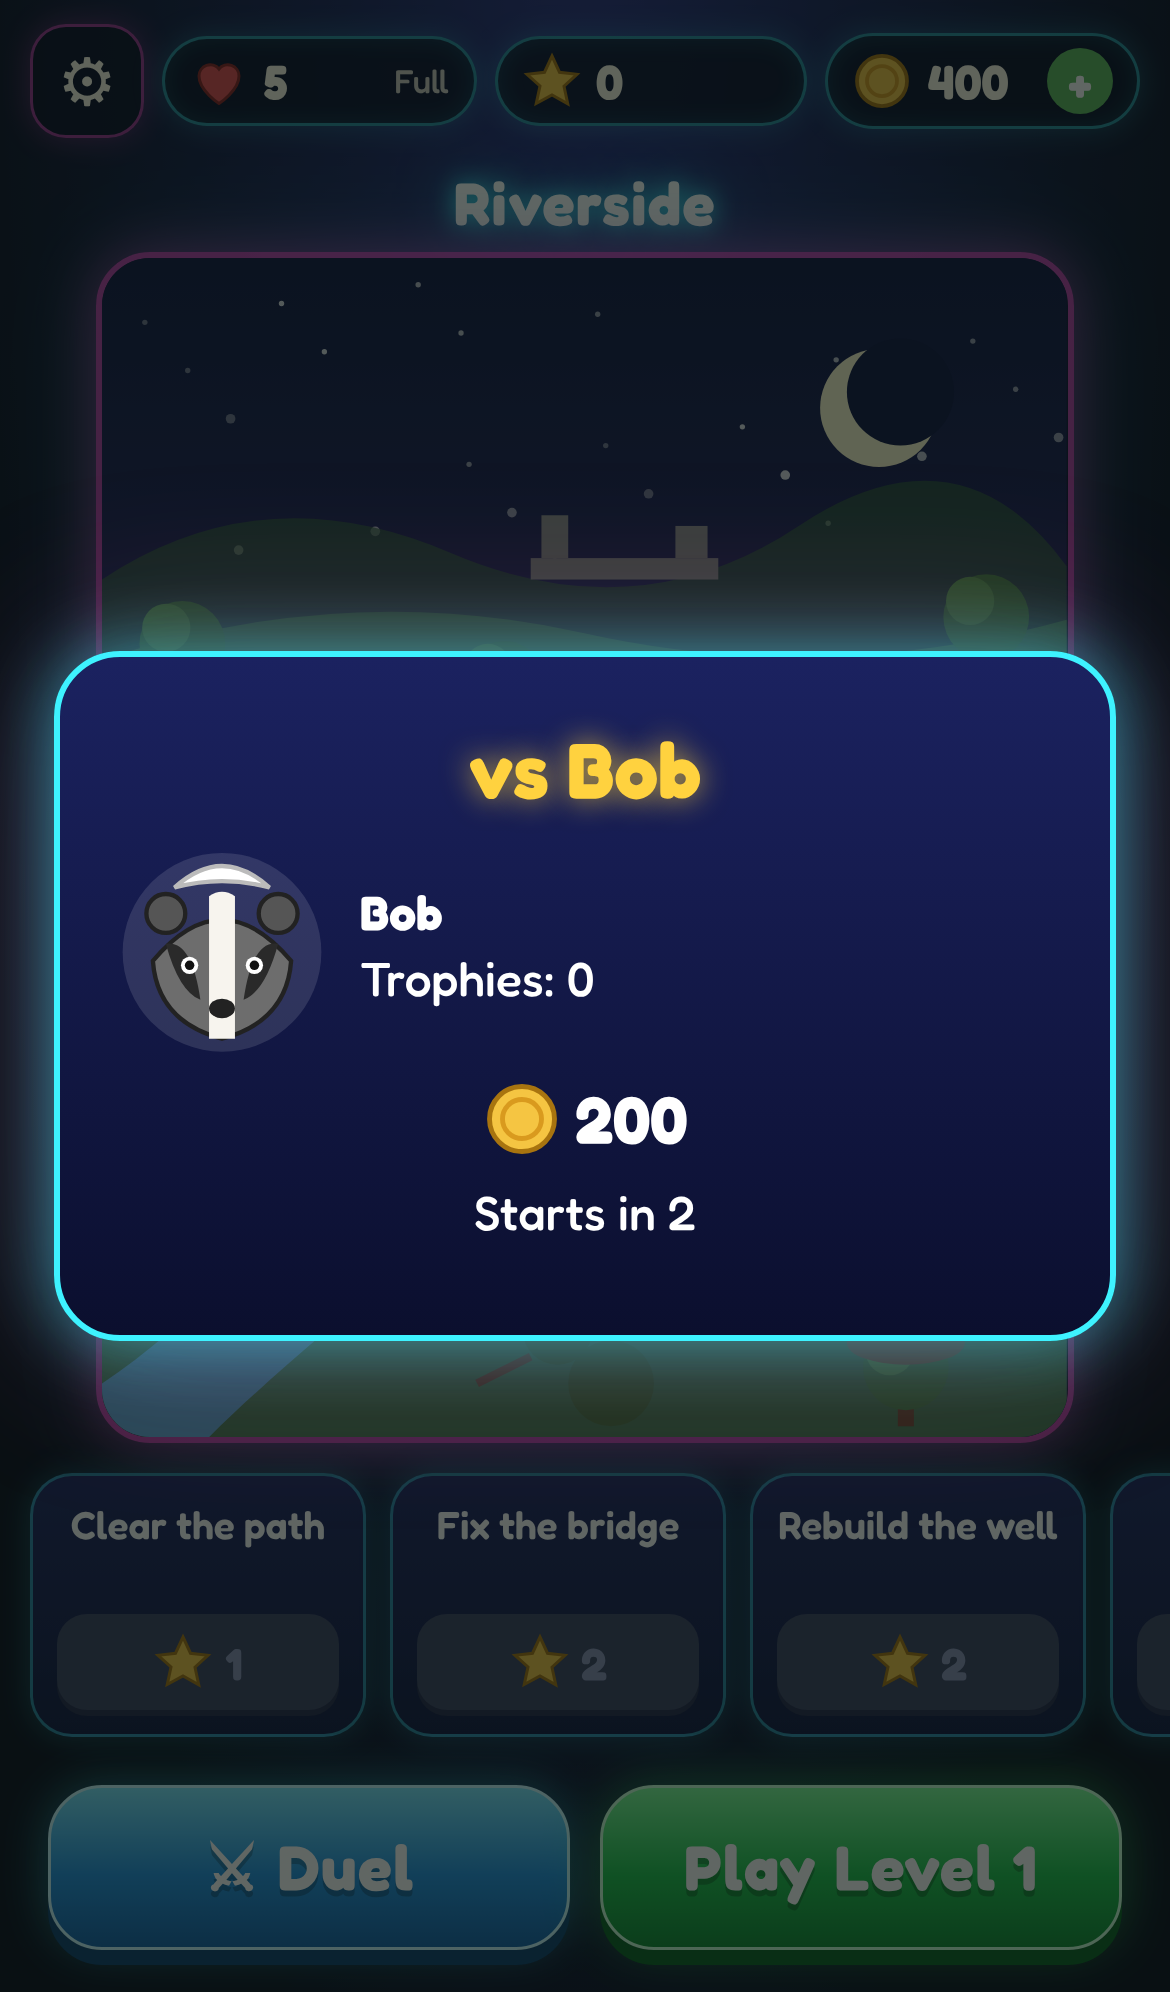
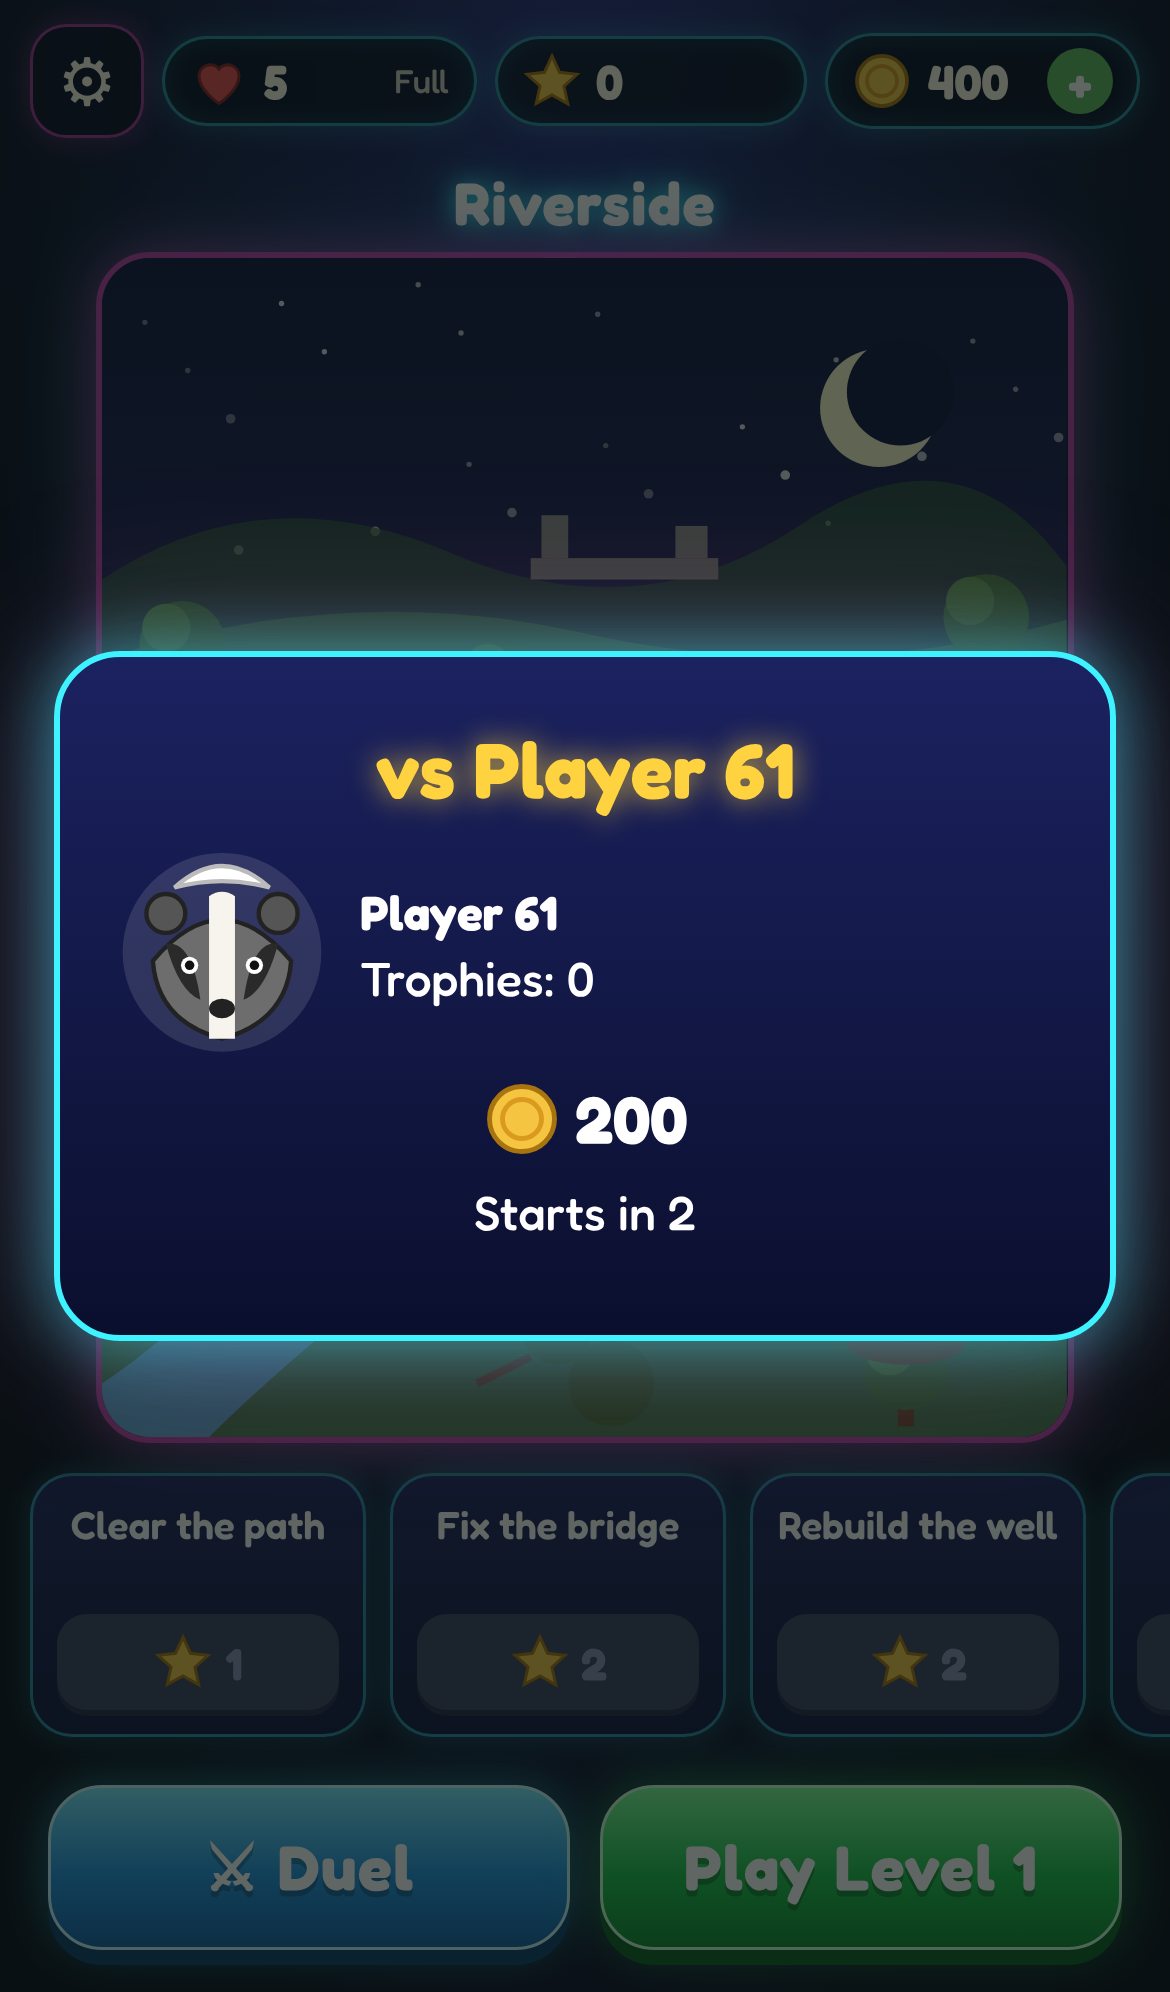
feat(mossbrook): generated duel names only, privacy + support pages, v0.3.0 run:mossbrook-ios
Names are adjective + animal + number from fixed lists (no free text to other players);
server replaces anything else. Privacy and support pages served at /mossbrook/.

Claude-Session: https://claude.ai/code/session_01QqDVFmBhHUwcQ7xNRuR2UE

Changed region(s): [[0.3077, 0.3424, 0.7077, 0.4046], [0.3077, 0.4357, 0.4923, 0.4669]]

diff --git a/mossbrook/web/privacy.html b/mossbrook/web/privacy.html
@@ -1,0 +1,35 @@
+<!doctype html>
+<html lang="en"><head><meta charset="utf-8"><meta name="viewport" content="width=device-width,initial-scale=1">
+<title>Mossbrook Solitaire - Privacy Policy</title>
+<style>body{font-family:system-ui,sans-serif;max-width:46rem;margin:2rem auto;padding:0 1rem;line-height:1.5;color:#222;background:#fff}h1{font-size:1.5rem}h2{font-size:1.15rem;margin-top:1.75rem}</style>
+</head><body>
+<h1>Privacy Policy for the game "Mossbrook Solitaire"</h1>
+<p>Last updated: 13 November 2026, version 1 (app com.nyrathen.mossbrook, iOS)</p>
+<h2>1. Controller</h2>
+<p>Ali Amuri Alnasag<br>Im Vogelsgesang 9<br>60488 Frankfurt am Main, Germany<br>E-mail for privacy requests: aa.amuri@icloud.com</p>
+<p>No data protection officer is appointed, as there is no legal obligation to do so.</p>
+<h2>2. In short</h2>
+<ul>
+<li>No account, no login, no ads, no advertising IDs, no tracking, no analytics or crash tools, no third-party SDKs except Apple's payment system.</li>
+<li>Single-player progress is saved on your device only.</li>
+<li>Only if you play a Duel, the game talks to our duel server and stores a random player ID, a generated nickname (for example "Swift Fox 42"), your trophies and the progress of your duel rounds.</li>
+<li>We do not collect your name, e-mail, date of birth, phone number, location or contacts.</li>
+<li>Purchases run through the Apple App Store. We never see payment details.</li>
+</ul>
+<h2>3. Data on your device</h2>
+<p>Your progress (level, coins, lives, restored village places, boosters, purchases made) and settings are stored in the app's private storage on your device. They are not sent to us, except the duel data in section 4. iOS can include this data in your iCloud or computer backup, which is run by Apple under your account; we have no access to it.</p>
+<h2>4. Duels and weekly leaderboard</h2>
+<p>When you open the Duel menu, the app sends a request to our server at play.nyrathen.com (hosted by Contabo GmbH, Germany). The server creates a random player ID and key and stores them with your generated nickname and trophies. During a duel it stores the number of cards left, your score and timing of each round, so that your opponent can see your progress live. Recorded rounds can be replayed to other players as a "ghost" opponent, shown only with your generated nickname. Your nickname and trophies appear on the weekly leaderboard.</p>
+<p>Nicknames cannot be typed freely, they are generated from a fixed word list. The data is not linked to your real identity, Apple ID or device ID, and is not used for advertising or tracking. Purpose: providing the multiplayer feature you requested (Art. 6(1)(b) GDPR). As with any internet connection, your IP address is processed to deliver the request; the duel server does not store it.</p>
+<p>Inactive players and old recorded rounds are deleted at the latest after 12 months. To delete your duel data earlier, write to the e-mail address above with your nickname.</p>
+<h2>5. Purchases</h2>
+<p>In-app purchases (coin packs, starter pack, boosters) are processed exclusively by the Apple App Store (Apple Distribution International Ltd.). Apple tells the app on your device that a purchase succeeded so the content can be granted. We do not receive or store payment details. There are no subscriptions and no random paid items.</p>
+<h2>6. Support requests</h2>
+<p>If you e-mail us (lords.azz6@gmail.com), we process your e-mail address and the content of your request to answer it (Art. 6(1)(b) and (f) GDPR) and delete it after the request is closed, at the latest after 12 months, unless a legal retention duty applies.</p>
+<h2>7. Children</h2>
+<p>The game does not ask for personal data from players of any age. It contains optional in-app purchases for real money; parents can block or approve purchases with Apple Screen Time and Ask to Buy.</p>
+<h2>8. Your rights</h2>
+<p>You have the right to access, rectification, erasure, restriction, data portability and objection (Art. 15-21 GDPR), and the right to lodge a complaint with a supervisory authority, for example the Hessian Commissioner for Data Protection and Freedom of Information.</p>
+<h2>9. Changes</h2>
+<p>If the game changes, we will update this policy and show the new date above.</p>
+</body></html>

diff --git a/mossbrook/web/duel.js b/mossbrook/web/duel.js
@@ -26,7 +26,10 @@ Object.assign(T.de, {
 const API = /^http/.test(location.protocol) && location.pathname.startsWith('/mossbrook') ? '/mossbrook/api/' : 'https://play.nyrathen.com/mossbrook/api/';
 const STAKES = [100, 500, 2000];
 const NAMES = ['Fox', 'Badger', 'Owl', 'Otter', 'Wren', 'Hare', 'Heron', 'Mole'];
-if (!S.mp) { S.mp = { name: NAMES[Math.floor(Math.random() * NAMES.length)] + ' ' + (100 + Math.floor(Math.random() * 900)), trophies: 0 }; save(); }
+const ADJ = ['Swift', 'Lucky', 'Clever', 'Brave', 'Quiet', 'Merry', 'Bold', 'Mossy', 'Sunny', 'Misty'];
+const genName = () => ADJ[Math.floor(Math.random() * ADJ.length)] + ' ' + NAMES[Math.floor(Math.random() * NAMES.length)] + ' ' + (10 + Math.floor(Math.random() * 90));
+if (!S.mp) { S.mp = { name: genName(), trophies: 0 }; save(); }
+if (!/^[A-Z][a-z]+ [A-Z][a-z]+ \d{2}$/.test(S.mp.name)) { S.mp.name = genName(); save(); }
 let D = null;
 
 async function call(route, body) {
@@ -184,9 +187,9 @@ showVillage = function () { const b = $('oppBar'); if (b && !D) b.classList.add(
 openSettings = function () {
   soloSettings();
   const s = $('mbox').querySelector('.settings');
-  const l = el('label', '', t('yourName') + '<input id="sName" maxlength="16" value="' + S.mp.name.replace(/"/g, '') + '">');
+  const l = el('label', '', t('yourName') + ' <b id="sName">' + S.mp.name + '</b> <button id="sReroll" class="small">&#x21bb;</button>');
   s.prepend(l);
-  l.querySelector('input').onchange = e => { S.mp.name = e.target.value.trim().slice(0, 16) || S.mp.name; save(); if (S.mp.id) hello().catch(() => {}); };
+  l.querySelector('button').onclick = () => { S.mp.name = genName(); save(); $('sName').textContent = S.mp.name; if (S.mp.id) hello().catch(() => {}); };
 };
 $('btnDuel').onclick = duelMenu;
 $('btnDuel').textContent = '⚔ ' + t('duel');

diff --git a/mossbrook/web/support.html b/mossbrook/web/support.html
@@ -1,0 +1,15 @@
+<!doctype html>
+<html lang="en"><head><meta charset="utf-8"><meta name="viewport" content="width=device-width,initial-scale=1">
+<title>Mossbrook Solitaire - Support</title>
+<style>body{font-family:system-ui,sans-serif;max-width:46rem;margin:2rem auto;padding:0 1rem;line-height:1.5;color:#222;background:#fff}h1{font-size:1.5rem}h2{font-size:1.15rem;margin-top:1.75rem}</style>
+</head><body>
+<h1>Mossbrook Solitaire - Help and support</h1>
+<p>Questions, bugs or purchase problems: <a href="mailto:lords.azz6@gmail.com">lords.azz6@gmail.com</a>. We usually answer within 2 days.</p>
+<h2>How to play</h2>
+<p>Tap a face-up card that is one higher or one lower than the open card on the pile (Ace and King connect). Clear all peaks to win the level. Out of moves? Draw from the stock, use a Joker or buy +5 cards.</p>
+<h2>Duels</h2>
+<p>Pick a coin stake, get matched with a player (or a recorded ghost run when nobody is online) and race on the same deal for 3 minutes. Winner takes the pot. Your nickname is generated; tap the arrow in Settings for a new one.</p>
+<h2>Purchases</h2>
+<p>All products are one-time coin packs, a one-time starter pack and booster bundles, with fixed contents. Progress and purchases are stored on your device. For refunds use <a href="https://reportaproblem.apple.com">reportaproblem.apple.com</a>.</p>
+<p><a href="privacy.html">Privacy policy</a></p>
+</body></html>

diff --git a/mossbrook/web/game.js b/mossbrook/web/game.js
@@ -63,7 +63,7 @@ const T = {
 const LANG = /^de/i.test(navigator.language || '') ? 'de' : 'en';
 function t(k, ...a) { let s = T[LANG][k] ?? T.en[k] ?? k; a.forEach((v, i) => { s = s.replace('{' + i + '}', v); }); return s; }
 
-const VERSION = '0.2.0';
+const VERSION = '0.3.0';
 const LIFE_MS = 20 * 60 * 1000, MAX_LIVES = 5;
 const TASK_KEYS = ['path', 'bridge', 'well', 'garden', 'mill', 'bakery', 'lanterns', 'cottage'];
 const TASK_COST = [1, 2, 2, 2, 3, 3, 3, 4];
@@ -671,7 +671,7 @@ function openShop() {
 function openSettings() {
   modal('<h2>' + t('settings') + '</h2><div class="settings">' +
     '<label>' + t('sound') + '<input type="checkbox" id="sSound"' + (S.sound ? ' checked' : '') + '></label>' +
-    '<label>' + t('privacy') + '<a href="https://play.nyrathen.com/legal/privacy" target="_blank">↗</a></label>' +
+    '<label>' + t('privacy') + '<a href="https://play.nyrathen.com/mossbrook/privacy.html" target="_blank">↗</a></label>' +
     '<label>' + t('support') + '<a href="mailto:lords.azz6@gmail.com">✉</a></label>' +
     '<label>' + t('version') + '<span>' + VERSION + '</span></label></div>' +
     '<div class="row">' + btn('mX', 'green', t('close')) + '</div>', m => {
